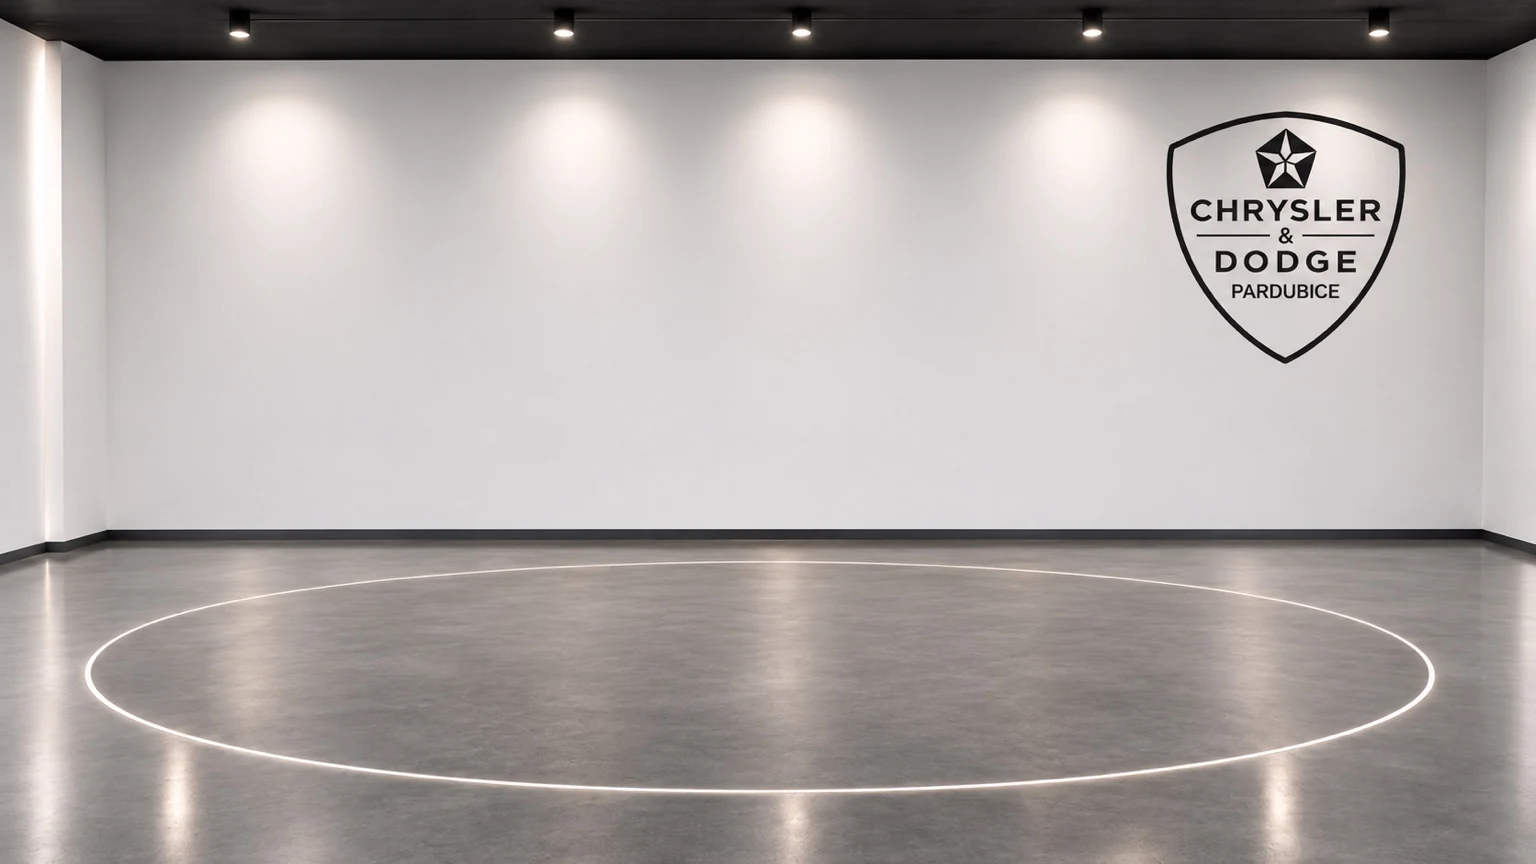
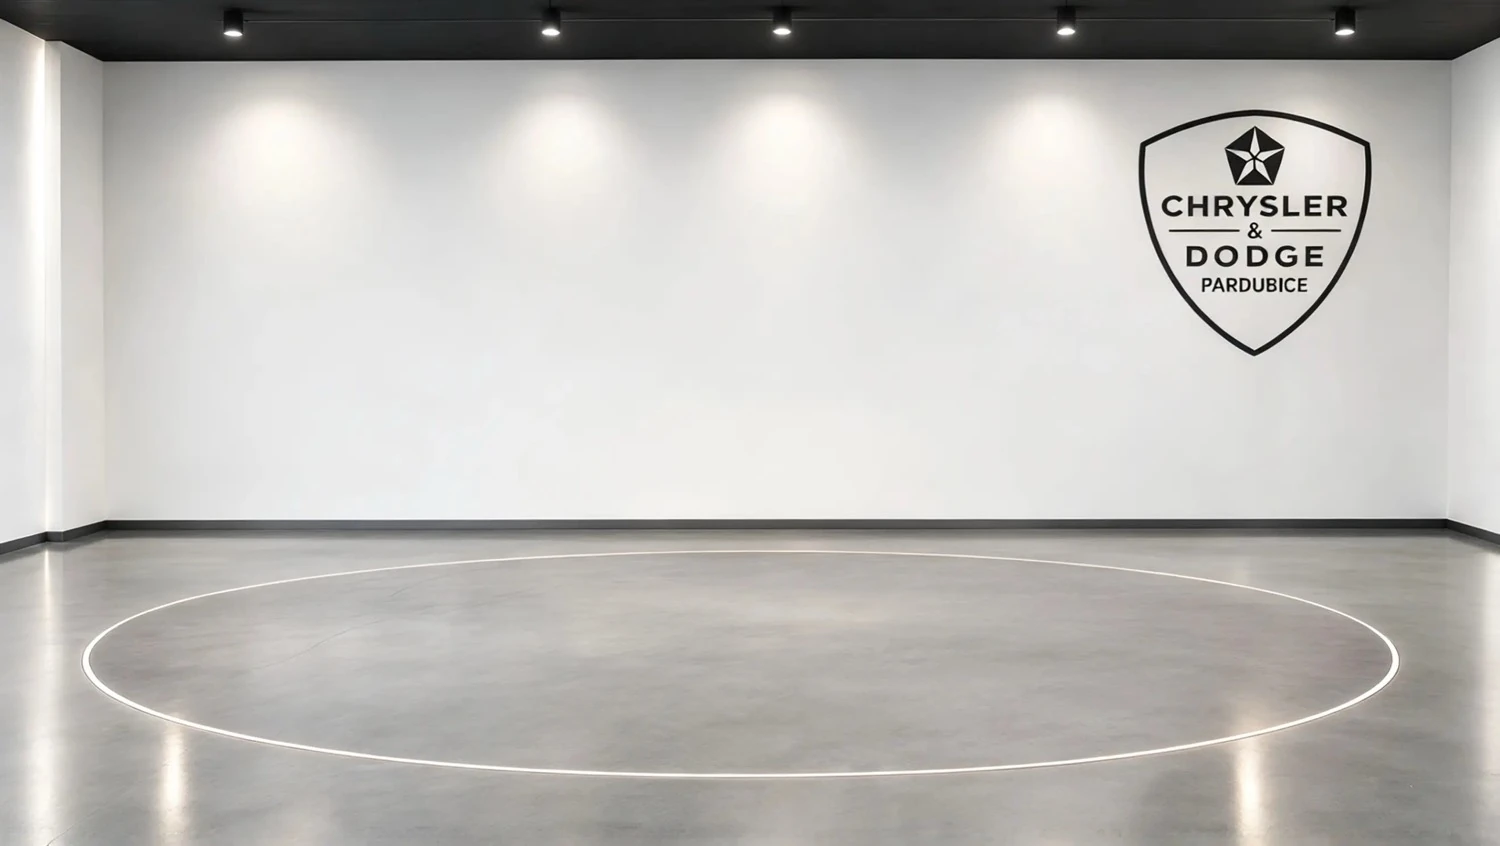
Lock the CHDP indoor plate as the showroom background.
Use the supplied 1500x846 photograph without stretching it, and place vehicles on the measured floor circle so a 3/4 pickup matches the reference RAM.

diff --git a/supabase/functions/_shared/showroomPipeline.ts b/supabase/functions/_shared/showroomPipeline.ts
@@ -3,10 +3,9 @@
 // SHOWROOM PIPELINE — shared by `showroom-generate` (single, admin UI) and
 // `showroom-batch` (bulk regeneration).
 //
-// THE ONE AND ONLY SHOWROOM BACKGROUND: a single fixed JPEG in storage.
-// The AI NEVER generates a background — it only cuts the vehicle out.
-// Placement/scale are computed mathematically, so every vehicle ends up on the
-// identical background at the identical scale.
+// THE ONE AND ONLY SHOWROOM BACKGROUND: master_showroom_background.jpg
+// (1500×846, CHDP indoor plate). The AI NEVER generates a background — it
+// only cuts the vehicle out. The plate is never stretched.
 // ============================================================================
 import { createClient } from "https://esm.sh/@supabase/supabase-js@2.39.7";
 import { Image } from "https://deno.land/x/imagescript@1.2.17/mod.ts";
@@ -33,7 +32,7 @@ const SUPABASE_URL = Deno.env.get("SUPABASE_URL")!;
 const LOVABLE_API_KEY = Deno.env.get("LOVABLE_API_KEY")!;
 
 export const BACKGROUND_URL =
-  `${SUPABASE_URL}/storage/v1/object/public/vehicles/showroom/_assets/background-v4.jpg`;
+  "https://raw.githubusercontent.com/josefhlv-cell/chrome-legacy-drive/main/public/assets/showroom/master_showroom_background.jpg";
 
 // Every geometric constant now comes from the read-only static template
 // (/public/assets/showroom/*.json, mirrored in showroomTemplate.ts).
@@ -812,6 +811,19 @@ export type ShowroomResult =
  *
  * Never touches `showroom_applied_at` — publishing stays an explicit admin action.
  */
+/** The master plate is a photograph. Same pixels, or a uniform scale. Never stretch. */
+function placeBackground(bg: Image): Image {
+  if (bg.width === CANVAS_W && bg.height === CANVAS_H) return bg;
+  const sx = CANVAS_W / bg.width;
+  const sy = CANVAS_H / bg.height;
+  if (Math.abs(sx - sy) > 0.01) {
+    throw new Error(
+      `Showroom background ${bg.width}x${bg.height} does not match canvas ${CANVAS_W}x${CANVAS_H}. Refusing to stretch.`,
+    );
+  }
+  return bg.resize(CANVAS_W, CANVAS_H);
+}
+
 export async function runShowroom(
   admin: AdminClient,
   imageId: string,
@@ -914,7 +926,7 @@ export async function runShowroom(
   let carDataUrl: string;
   try {
     const [bg, car] = await Promise.all([
-      fetchBytes(BACKGROUND_URL, "Showroom pozadí (vehicles/showroom/_assets/background-v4.jpg) nelze načíst"),
+      fetchBytes(BACKGROUND_URL, "Showroom pozadí (master_showroom_background.jpg) nelze načíst"),
       fetchBytes(sourceUrl, "Originální fotografii vozu nelze načíst"),
     ]);
     bgBytes = bg.bytes;
@@ -977,7 +989,7 @@ export async function runShowroom(
       car.resize(targetW, targetH);
       featherEdges(car);
 
-      const canvas = (await Image.decode(bgBytes)).resize(CANVAS_W, CANVAS_H);
+      const canvas = placeBackground(await Image.decode(bgBytes));
       const carX = Math.round(GROUND.anchorX - targetW / 2 + usedPlace.offsetX);
       const carY = Math.round(GROUND.wheelLineY + usedPlace.offsetY) - targetH;
 
@@ -1024,7 +1036,7 @@ export async function runShowroom(
       if (!aiReview.passed && aiReview.car_too_small && attempt < VALIDATION.maxAttempts && aiReview.scale_multiplier > 1.01) {
         usedPlace = placementFromProfile(vehicleClass, {
           ...usedPlace,
-          scale: Math.min(0.72, usedPlace.scale * aiReview.scale_multiplier),
+          scale: Math.min(PLACEMENT_LIMITS.maxCarWidthRatio, usedPlace.scale * aiReview.scale_multiplier),
         });
         await appendHistory(admin, imageId, "ai_visual_retry", "AI score " + aiReview.score + "/100 — scale correction");
         continue;

diff --git a/supabase/functions/_shared/showroomTemplate.ts b/supabase/functions/_shared/showroomTemplate.ts
@@ -4,14 +4,15 @@
 // READ ONLY: never generate, never mutate at runtime.
 // ============================================================================
 
-export const CAMERA_VERSION = "camera-v2";
-export const BACKGROUND_VERSION = "background-v5";
-export const PLACEMENT_VERSION = "placement-v6";
-export const LIGHTING_VERSION = "lighting-v2";
-export const GROUND_VERSION = "ground-v5";
+export const CAMERA_VERSION = "camera-v3";
+export const BACKGROUND_VERSION = "background-v6";
+export const PLACEMENT_VERSION = "placement-v7";
+export const LIGHTING_VERSION = "lighting-v3";
+export const GROUND_VERSION = "ground-v6";
 
-export const CANVAS_W = 1536;
-export const CANVAS_H = 968;
+// Native pixels of master_showroom_background.jpg. Never stretch this plate.
+export const CANVAS_W = 1500;
+export const CANVAS_H = 846;
 
 /** Locked camera (camera.json). */
 export const CAMERA = {
@@ -20,31 +21,32 @@ export const CAMERA = {
   pitch_deg: -1.8,
   yaw_deg: 0,
   roll_deg: 0,
-  horizon_y: 595,
+  horizon_y: 296,
   jpeg_quality: 94,
 } as const;
 
 /** Ground plane (ground_plane.json). */
 export const GROUND = {
-  wheelLineY: 875,
-  anchorX: 768,
-  usableMinX: 160,
-  usableMaxX: 1376,
-  wallFloorSeamY: 595,
+  wheelLineY: 768,
+  anchorX: 750,
+  usableMinX: 90,
+  usableMaxX: 1410,
+  wallFloorSeamY: 518,
   ambientReachRatio: 0.11,
   contactReachRatio: 0.022,
   ambientOpacity: 0.30,
-  contactOpacity: 0.58,
-  reflectionOpacity: 0.14,
+  contactOpacity: 0.62,
+  reflectionOpacity: 0.18,
 } as const;
 
-/** Reserved wall artwork. A vehicle is never allowed to enter this zone. */
+/** Upper star of the wall shield. The wordmark sits lower and a 3/4 bbox
+ * crosses it without covering the artwork, so only the star is a hard keep-out. */
 export const LOGO_SAFE_ZONE = {
-  minX: 0,
-  maxX: 0,
-  minY: 0,
-  maxY: 0,
-  clearancePx: 0,
+  minX: 1168,
+  maxX: 1342,
+  minY: 118,
+  maxY: 210,
+  clearancePx: 8,
 } as const;
 
 export type VehicleClass =
@@ -76,8 +78,8 @@ export const CLASS_PROFILES: Record<VehicleClass, ClassProfile> = {
 export const PLACEMENT_LIMITS = {
   maxRotationDeg: 1,
   minFrameMarginPx: 24,
-  maxCarWidthRatio: 0.72,
-  maxCarHeightRatio: 0.40,
+  maxCarWidthRatio: 0.74,
+  maxCarHeightRatio: 0.68,
 } as const;
 
 export const VALIDATION = {

diff --git a/src/lib/showroomPrimary.test.ts b/src/lib/showroomPrimary.test.ts
@@ -10,7 +10,7 @@ describe("showroom primary photo", () => {
     expect(pickPrimaryImage([{ id: "a", sort_order: 3 }, { id: "b", sort_order: 1 }])?.id).toBe("b");
   });
   it("uses the showroom variant of the primary photo only when Tutorial is ON", () => {
-    const meta = { background_version: "background-v4", camera_version: "camera-v1", placement_version: "placement-v2", lighting_version: "lighting-v2" };
+    const meta = { background_version: "background-v6", camera_version: "camera-v3", placement_version: "placement-v7", lighting_version: "lighting-v3" };
     const v = { showroom_mode: "main", vehicle_images: [
       { is_main: true, sort_order: 0, image_url: "orig-main.jpg", showroom_url: "show-main.jpg", showroom_applied_at: "x", showroom_metadata: meta },
       { is_main: false, sort_order: 1, image_url: "orig-2.jpg", showroom_url: "show-2.jpg", showroom_applied_at: "x", showroom_metadata: meta },

diff --git a/src/lib/showroomImage.ts b/src/lib/showroomImage.ts
@@ -10,10 +10,10 @@
  * Keep in sync with supabase/functions/_shared/showroomTemplate.ts.
  */
 export const SHOWROOM_TEMPLATE = {
-  background: "background-v4",
-  camera: "camera-v1",
-  placement: "placement-v2",
-  lighting: "lighting-v2",
+  background: "background-v6",
+  camera: "camera-v3",
+  placement: "placement-v7",
+  lighting: "lighting-v3",
 } as const;
 
 export type ShowroomImageLike = {

diff --git a/public/assets/showroom/README.md b/public/assets/showroom/README.md
@@ -1,18 +1,19 @@
 # Static showroom template — READ ONLY
 
-These files define the single, permanent virtual showroom. They must never be
-regenerated by AI or by a script.
+These files define the single CHDP indoor showroom. They must never be
+regenerated by AI. The photograph is the perspective reference.
 
 | File | Purpose |
 | --- | --- |
-| `master_showroom_background.webp` | The one and only background (1920×1080 reference copy of the immutable storage master). |
-| `camera.json` | Locked camera: height, pitch/yaw/roll, FOV, focal length, horizon. |
-| `lighting.json` | Lighting signature used for colour matching and anti-halo cleanup. |
-| `ground_plane.json` | Asphalt plane, tyre contact line, shadow direction, vehicle anchor. |
-| `placement_rules.json` | Global placement rules, per-class profiles, validation thresholds. |
-| `vehicle_masks/` | Cached vehicle cut-out masks (`<imageId>.png`), written by the pipeline only. |
+| `master_showroom_background.jpg` | The one plate, native 1500×846. Never stretch, crop the logo, or crop the floor circle. |
+| `master_showroom_background.webp` | Same plate, reference copy. |
+| `camera.json` | Locked camera. Rear wall is 6.60 m × 3.00 m. |
+| `lighting.json` | Ceiling spots and floor reflection, for integration only. |
+| `ground_plane.json` | Concrete plane, tyre line y=768, display circle. |
+| `placement_rules.json` | Per-class scale. A 3/4 pickup is 70% of frame width. |
+| `vehicle_masks/` | Cached cut-out masks, written by the pipeline only. |
 
 The compositing pipeline mirrors these values in
-`supabase/functions/_shared/showroomTemplate.ts` (the edge runtime cannot read
-`/public`). If a value ever changes here, bump the version string in both places
-and regenerate every composite explicitly from the admin Showroom tab.
+`supabase/functions/_shared/showroomTemplate.ts`. The edge runtime fetches the
+JPG from this folder. If a value changes, bump the version in both places.
+Older composites then drop off the public site until Showroom is run again.

diff --git a/AGENTS.md b/AGENTS.md
@@ -5,4 +5,4 @@
 - Capture readiness is checked independently of media events; JPEG callbacks and local persistence have bounded recovery paths so stalled browser APIs cannot silently lock capture controls.
 - Mobile camera tracks are stopped on page hiding and reacquired by a user gesture; stale async camera requests must stop their tracks to avoid iOS frozen previews and camera leaks.
 - Mobile Smart Capture is capture/handoff only; desktop uses the same session IDs for review, completion and export.
-- Capture completion waits for durable remote photos and progress, marks metadata as finished, then clears the active-session pointer without deleting the saved review session; this prevents mobile auto-resume while retaining desktop export.- Showroom composites are generated only for a vehicle's primary photo (is_main → lowest sort_order → id), enforced in both UI and runShowroom; bulk showroom-batch is disabled to keep costs and catalog consistency under control. The fixed background lives at vehicles/showroom/_assets/background-v4.jpg and must be excluded from any storage cleanup.
+- Capture completion waits for durable remote photos and progress, marks metadata as finished, then clears the active-session pointer without deleting the saved review session; this prevents mobile auto-resume while retaining desktop export.- Showroom composites are generated only for a vehicle's primary photo (is_main → lowest sort_order → id), enforced in both UI and runShowroom; bulk showroom-batch is disabled to keep costs and catalog consistency under control. The fixed background is `public/assets/showroom/master_showroom_background.jpg` (1500×846, never stretched) and must not be regenerated or cropped.
